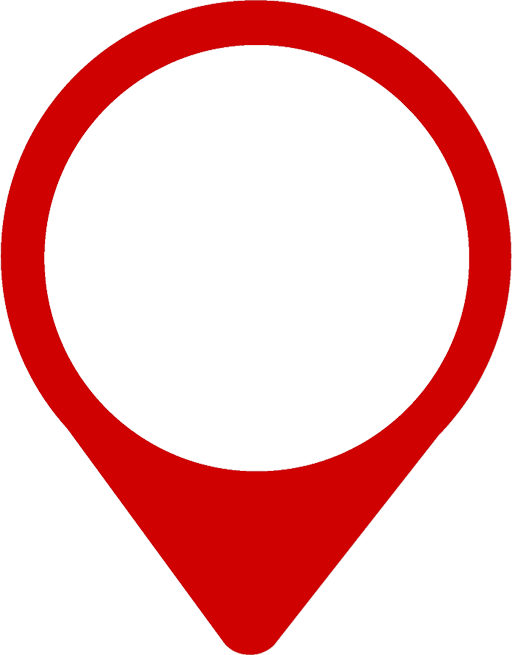
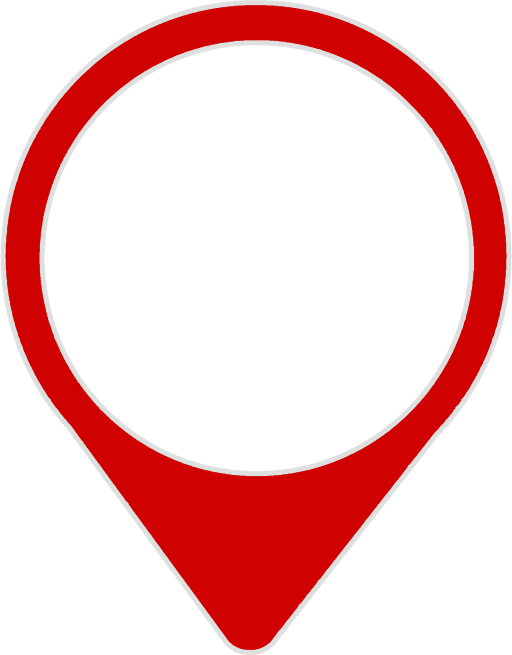
Added protection level display Added white outline to markers

diff --git a/src/pages/home/home.ts b/src/pages/home/home.ts
@@ -571,14 +571,20 @@ export class HomePage implements OnDestroy {
 
           this.levelBanner = `${score} invite(s) sent`;
 
-          // if (score < 3) {
-          //   this.progress = score * 33;
-          //   this.levelBanner = 3 - score + ' invites needed to get tags!';
-          // } else if (score >= 3) {
-          //   this.progress = 100;
+          if (score <= 1) {
+            document.getElementById("level1").style.background = 'red';
+          }
 
-          //   this.levelBanner = `${score} invite(s) sent`;
-          // }
+          if (score === 2) {
+            document.getElementById("level1").style.background = 'orange';
+            document.getElementById("level2").style.background = 'orange';
+          }
+
+          if (score >= 3) {
+            document.getElementById("level1").style.background = '#01c05a';
+            document.getElementById("level2").style.background = '#01c05a';
+            document.getElementById("level3").style.background = '#01c05a';
+          }
 
           resolve(s);
         })
@@ -597,13 +603,13 @@ export class HomePage implements OnDestroy {
 
       this.initializeMapView();
 
-      this.updateBanner()
-        .then(r => {
-          console.log('updateBanner', r);
-        })
-        .catch(e => {
-          console.error('updateBanner', e);
-        });
+      // this.updateBanner()
+      //   .then(r => {
+      //     console.log('updateBanner', r);
+      //   })
+      //   .catch(e => {
+      //     console.error('updateBanner', e);
+      //   });
 
     });
 
@@ -1507,38 +1513,58 @@ export class HomePage implements OnDestroy {
   }
 
   sendInvite() {
-    // Make sure we send an up-to-date FCM token with our invite
-    this.notificationProvider.updateTokens();
+    let alertBox = this.alertCtrl.create({
+      title: 'Pet Protection',
+      message: "Your pets are safer when you invite friends. When your invite is accepted, your protection level will increase.",
+      buttons: [
+        {
+          text: 'Maybe Later',
+          role: 'cancel',
+          handler: () => { }
+        },
 
-    this.authProvider
-      .getAccountInfo(false)
-      .then(account => {
-        this.utils
-          .textReferralCode(
-            account.displayName,
-            this.notificationProvider.getFCMToken()
-          )
-          .then(r => {
-            console.log('sendInvite', r);
+        {
+          text: 'Make my pets safer!',
+          handler: () => {
+            this.notificationProvider.updateTokens();
 
-            // Wait for 1 second to ensure Branch updated their database
-            setTimeout(() => {
-              this.updateBanner()
-                .then(r => {
-                  console.log('updateBanner', r);
-                })
-                .catch(e => {
-                  console.error('updateBanner', e);
-                });
-            }, 1000);
-          })
-          .catch(e => {
-            console.warn('textReferralCode', e);
-          });
+            this.authProvider
+              .getAccountInfo(false)
+              .then(account => {
+                this.utils
+                  .textReferralCode(
+                    account.displayName,
+                    this.notificationProvider.getFCMToken()
+                  )
+                  .then(r => {
+                    console.log('sendInvite', r);
+                        
+                  })
+                  .catch(e => {
+                    console.warn('textReferralCode', e);
+                  });
+              })
+              .catch(e => {
+                console.error('sendInvite(): ERROR: Unable to get account info!', e);
+              });
+          }
+        },
+
+      ],
+      cssClass: 'alertclass'
+    });
+
+    alertBox
+      .present()
+      .then(() => {
+        
       })
       .catch(e => {
-        console.error('sendInvite(): ERROR: Unable to get account info!', e);
+        console.error('sendInvite: ' + JSON.stringify(e));
       });
+
+    // Make sure we send an up-to-date FCM token with our invite
+ 
   }
 
   trackByTags(index: number, tag: Tag) {

diff --git a/src/pages/home/home.html b/src/pages/home/home.html
@@ -79,9 +79,17 @@
     <div id="always-permission-text">'Always' Location Permission Disabled. <br>Pet Protection Inactive.</div>
   </div>
 
-  <div *ngIf="auth && bluetooth && monitoring_enabled && number_of_tags <= 5" id="monitoring-enabled">
+  <div *ngIf="auth && bluetooth && monitoring_enabled && number_of_tags <= 50" id="monitoring-enabled" (click)="sendInvite()">
     <ion-icon id="pet-protection-icon" name="checkmark-circle-outline"></ion-icon>
-    <div id="pet-protection-text">Pet Protection Enabled</div>
+    <div id="pet-protection-text">
+      Pet Protection Enabled
+      <div id="protection-level">
+        Level:
+        <div class="level" id="level1"></div>
+        <div class="level" id="level2"></div>
+        <div class="level" id="level3"></div>
+      </div>
+    </div>
   </div>
   <div *ngIf="auth && !bluetooth" id="monitoring-disabled">
     <ion-icon id="bluetooth-disabled-icon" name="bluetooth"></ion-icon>
@@ -91,7 +99,7 @@
     <ion-icon id="pet-protection-disabled-icon" name="alert"></ion-icon>
     <div id="pet-protection-text">Pet Protection Disabled</div>
   </div>
-  <div *ngIf="auth && bluetooth && number_of_tags > 5 && monitoring_enabled" id="updates-delayed">
+  <div *ngIf="auth && bluetooth && number_of_tags > 50 && monitoring_enabled" id="updates-delayed">
     <ion-icon id="updates-delayed-icon" name="alert"></ion-icon>
     <div id="pet-protection-text">Large number of tags detected. Updates delayed.</div>
   </div>

diff --git a/src/pages/home/home.scss b/src/pages/home/home.scss
@@ -361,7 +361,6 @@ page-home {
     background: #01c05a;
     z-index: 15;
     box-shadow: 0px 5px 10px 0px rgba(0, 0, 0, 0.5);
-
   }
 
   #location-disabled-icon {
@@ -402,20 +401,41 @@ page-home {
     border: 1px solid transparent;
     color: black;
     background: white;
-    text-align: center;
+    text-align: left;
     vertical-align: center;
     font-weight: normal;
     font-size: 10px;
-    padding-right: 4px;
+    padding-right: 7px;
     padding-top: 5px;
     padding-bottom: 5px;
     box-shadow: 0px 5px 10px 0px rgba(0, 0, 0, 0.5);
     padding-left: 20px;
     left: 30px;
-    top: -33px;
+    top: -40px;
     width: auto;
     position: relative;
     z-index: -1;
+  }
+
+  #protection-level {
+    font-size: 8px;
+    text-align: left;
+    display: flex;
+    flex-direction: row;
+    width: 100%;
+  }
+
+  div.level {
+    min-height: 3px;
+    width: 33%;
+    background: rgb(212, 211, 211);
+    border-radius: 50px;
+    padding-right: 2px;
+    padding-left: 0px;
+    padding-top: 0px;
+    padding-bottom: 0px;
+    margin: 2px;
+    z-index: 999;
   }
 
   #always-permission-text {
@@ -516,6 +536,7 @@ page-home {
     width: auto;
     height: auto;
     animation: slideDown 1s ease-in-out;
+    z-index: 99;
 
   }
 
